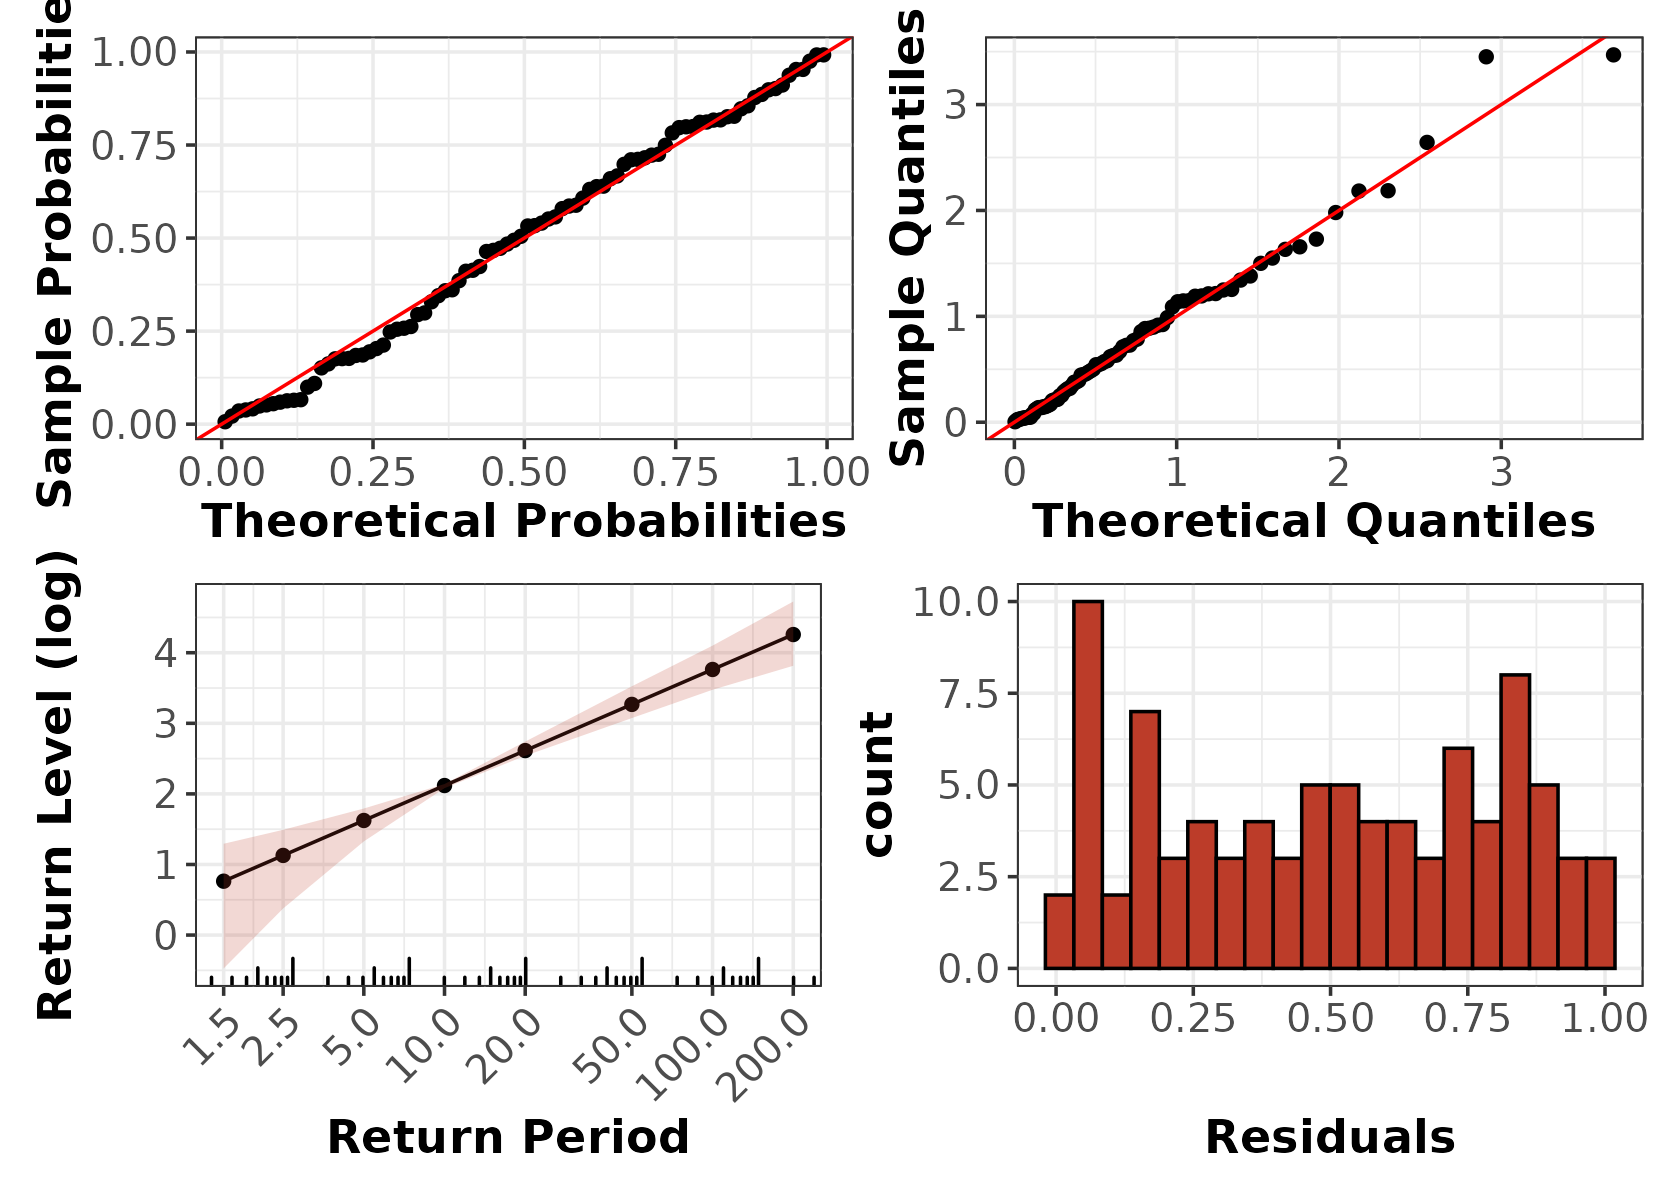
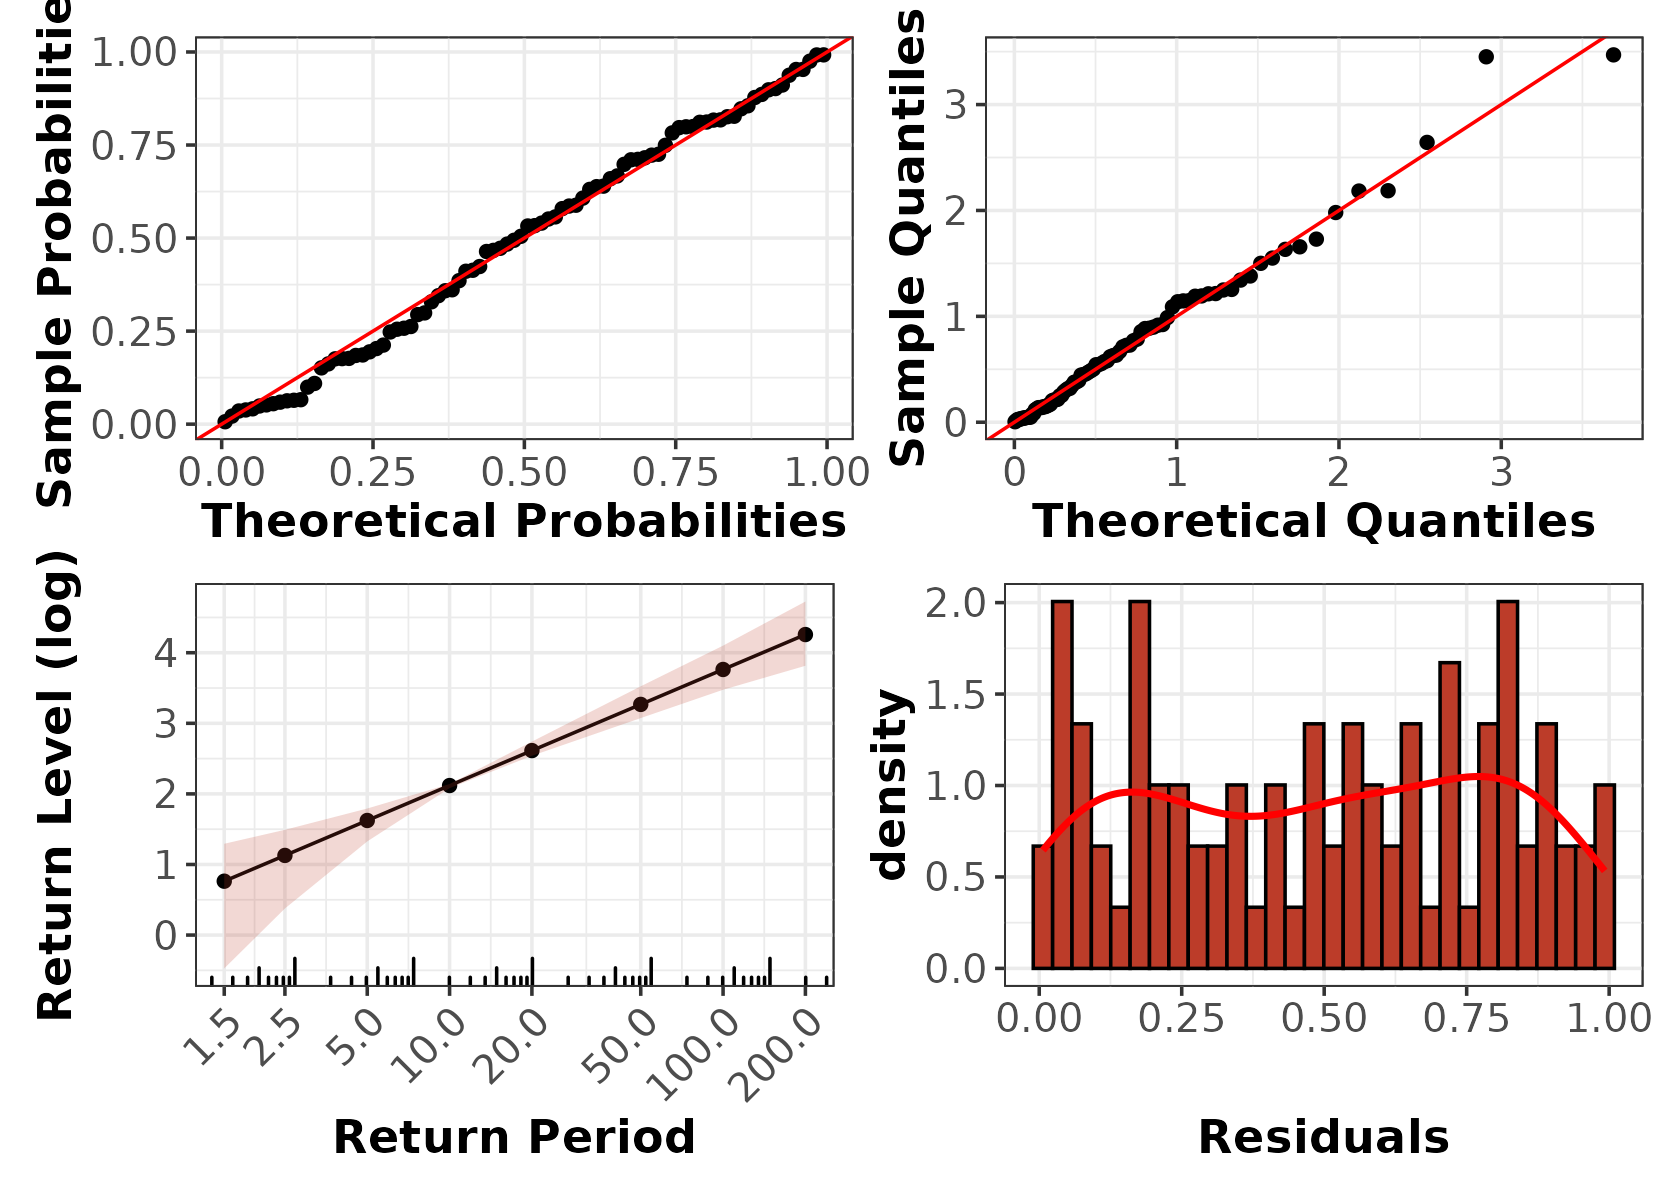
Deploying to gh-pages from @ potoole7/CeCl@7b098837a93cca421e42eade6a22e941ee8d3c48 🚀

diff --git a/articles/CeCl.html b/articles/CeCl.html
@@ -390,7 +390,15 @@ we plot here for <code>loc_1</code> and variable <code>X1</code>:</p>
 <span>  <span class="fu"><a href="https://ggplot2.tidyverse.org/reference/ggplot.html" class="external-link">ggplot</a></span><span class="op">(</span><span class="va">marg_ismev</span>, which <span class="op">=</span> <span class="st">"return"</span>, loc <span class="op">=</span> <span class="st">"loc_1"</span>, var <span class="op">=</span> <span class="st">"X1"</span><span class="op">)</span> <span class="op">+</span> </span>
 <span>    <span class="fu"><a href="https://ggplot2.tidyverse.org/reference/theme.html" class="external-link">theme</a></span><span class="op">(</span>axis.text.x <span class="op">=</span> <span class="fu"><a href="https://ggplot2.tidyverse.org/reference/element.html" class="external-link">element_text</a></span><span class="op">(</span>angle <span class="op">=</span> <span class="fl">45</span>, hjust <span class="op">=</span> <span class="fl">1</span><span class="op">)</span><span class="op">)</span></span>
 <span>  <span class="op">)</span> <span class="op">+</span> </span>
-<span>     <span class="fu"><a href="https://ggplot2.tidyverse.org/reference/ggplot.html" class="external-link">ggplot</a></span><span class="op">(</span><span class="va">marg_ismev</span>, which <span class="op">=</span> <span class="st">"hist"</span>, loc <span class="op">=</span> <span class="st">"loc_1"</span>, var <span class="op">=</span> <span class="st">"X1"</span><span class="op">)</span><span class="op">)</span></span></code></pre></div>
+<span>     <span class="fu"><a href="https://ggplot2.tidyverse.org/reference/ggplot.html" class="external-link">ggplot</a></span><span class="op">(</span><span class="va">marg_ismev</span>, which <span class="op">=</span> <span class="st">"hist"</span>, loc <span class="op">=</span> <span class="st">"loc_1"</span>, var <span class="op">=</span> <span class="st">"X1"</span><span class="op">)</span><span class="op">)</span></span>
+<span><span class="co">#&gt; Warning: Using `size` aesthetic for lines was deprecated in ggplot2 3.4.0.</span></span>
+<span><span class="co">#&gt; <span style="color: #00BBBB;">ℹ</span> Please use `linewidth` instead.</span></span>
+<span><span class="co">#&gt; <span style="color: #00BBBB;">ℹ</span> The deprecated feature was likely used in the <span style="color: #0000BB;">CeCl</span> package.</span></span>
+<span><span class="co">#&gt;   Please report the issue at <span style="color: #0000BB; font-style: italic;">&lt;https://github.com/mrc-ide/CeCl/issues&gt;</span>.</span></span>
+<span><span class="co">#&gt; <span style="color: #555555;">This warning is displayed once every 8 hours.</span></span></span>
+<span><span class="co">#&gt; <span style="color: #555555;">Call `lifecycle::last_lifecycle_warnings()` to see where this warning was</span></span></span>
+<span><span class="co">#&gt; <span style="color: #555555;">generated.</span></span></span>
+<span><span class="co">#&gt; `stat_bin()` using `bins = 30`. Pick better value `binwidth`.</span></span></code></pre></div>
 <p><img src="CeCl_files/figure-html/marginal_ggplot-1.png" class="r-plt" width="100%" style="display: block; margin: auto;"></p>
 <p>Unsurprisingly, since we specified GP margins when simulating the
 data, the GPD fits appear to be quite good, for 100 observations in the
